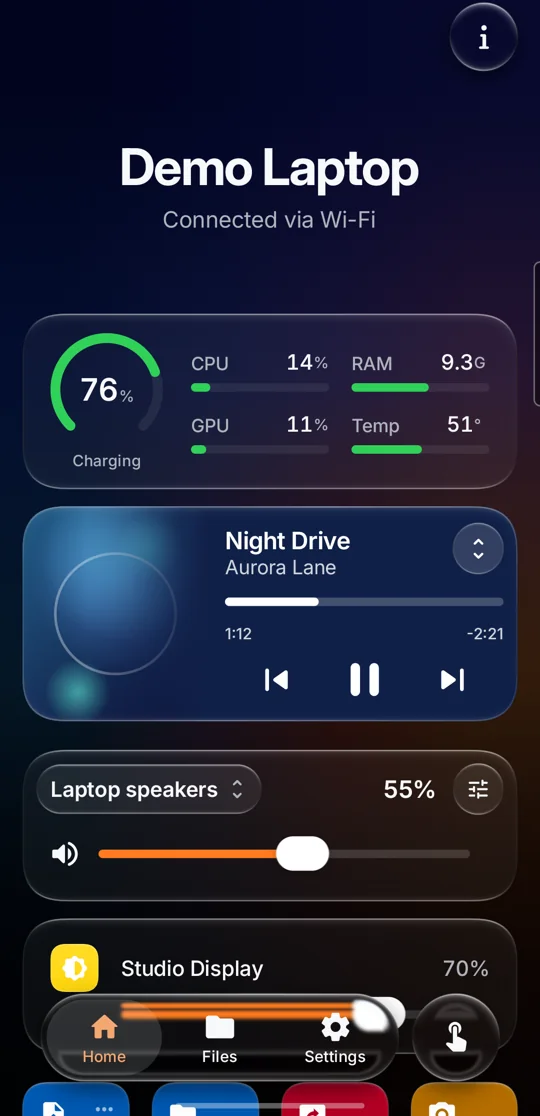
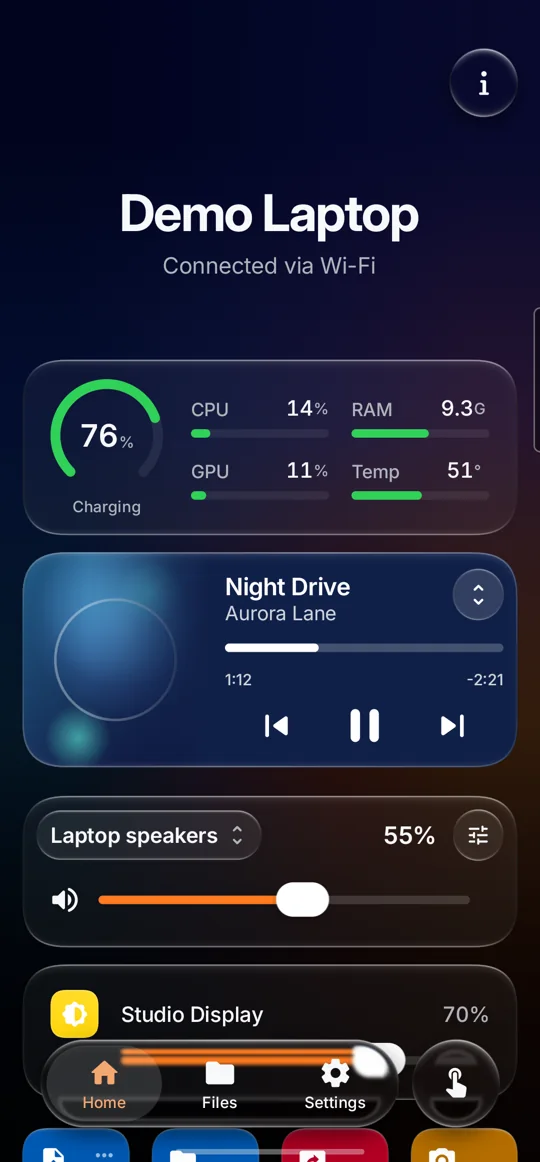
Website: the glass floats in, rims follow the card corners, room above the phone's i button
The lens rises from the sand as a small drop and swells into place over the name, then rests
(nothing redraws once it's settled). Cards' rim and inner band now take the card's smooth corner,
so they no longer sit inside it at the corners. The phone screenshot gets the space the status
bar took, so its i button clears the frame's corner.

diff --git a/site/assets/site.js b/site/assets/site.js
@@ -71,6 +71,8 @@
     const ZOOM = 1.12, DPR = Math.min(window.devicePixelRatio || 1, 2);
     let W = 0, H = 0, D = 0, x = 0, y = 0, vx = 0, vy = 0, tx = 0, ty = 0;
     let held = false, gx = 0, gy = 0, running = false, placed = false, moved = false;
+    // It floats in: a small drop rising from the sand that swells to full size over the word.
+    let restX = 0, restY = 0, entering = !reduced, sc = reduced ? 1 : 0.22, vs = 0;
     let src = null, sw = 0, sh = 0, table = null, L = 0, out = null, build = 0;
 
     // Where each lens pixel looks, in device px from the lens centre, and how much of it is inside.
@@ -168,13 +170,17 @@
 
     function measure() {
       W = hero.clientWidth; H = hero.clientHeight; D = lens.offsetWidth;
-      if (!placed) {
+      if (!placed || entering) {
         const range = document.createRange();
         range.selectNodeContents($(".word", scene));
         const r = range.getBoundingClientRect(), h = hero.getBoundingClientRect();
-        x = r.left - h.left - D * 0.12;
-        y = r.top - h.top + r.height / 2 - D / 2;
-        placed = true;
+        restX = Math.min(Math.max(r.left - h.left - D * 0.12, 0), W - D);
+        restY = Math.min(Math.max(r.top - h.top + r.height / 2 - D / 2, 0), H - D);
+        if (!placed) {
+          x = restX; y = restY;
+          if (entering) { x = restX + Math.min(W * 0.22, D * 1.4); y = Math.min(restY + H * 0.34, H - D); }
+          placed = true;
+        }
       }
       x = Math.min(Math.max(x, 0), W - D);
       y = Math.min(Math.max(y, 0), H - D);
@@ -185,17 +191,29 @@
 
     function draw() {
       const s = Math.hypot(vx, vy), k = Math.min(s / 45, 1) * 0.1, a = Math.atan2(vy, vx);
-      lens.style.transform = `translate(${x}px, ${y}px) rotate(${a}rad) scale(${1 + k}, ${1 - k * 0.7}) rotate(${-a}rad)`;
+      lens.style.transform = `translate(${x}px, ${y}px) rotate(${a}rad) scale(${sc * (1 + k)}, ${sc * (1 - k * 0.7)}) rotate(${-a}rad)`;
+      lens.style.opacity = Math.min(Math.max((sc - 0.22) / 0.4, 0), 1);
       // The sun is the light: the rim is brightest where it faces it.
-      const sc = Math.max(W / 1600, H / 1000);
-      const sx = (W - 1600 * sc) / 2 + 930 * sc, sy = (H - 1000 * sc) / 2 + 500 * sc;
+      const fit = Math.max(W / 1600, H / 1000);
+      const sx = (W - 1600 * fit) / 2 + 930 * fit, sy = (H - 1000 * fit) / 2 + 500 * fit;
       const deg = Math.atan2(sx - (x + D / 2), -(sy - (y + D / 2))) * 180 / Math.PI;
       lens.style.setProperty("--la", deg + "deg");
       paint();
     }
 
     function step() {
-      if (held) {
+      // Swelling to full size wobbles out like a drop (underdamped), held or not.
+      vs = (vs + (1 - sc) * 0.035) * 0.8;
+      sc += vs;
+      if (entering && !held) {
+        vx = (vx + (restX - x) * 0.014) * 0.85;
+        vy = (vy + (restY - y) * 0.014) * 0.85;
+        x += vx; y += vy;
+        if (Math.hypot(restX - x, restY - y) < 0.3 && Math.hypot(vx, vy) < 0.05 && Math.abs(1 - sc) < 0.002) {
+          entering = false;
+          if (!moved) hint.classList.remove("gone");
+        }
+      } else if (held) {
         const nx = x + (tx - x) * 0.32, ny = y + (ty - y) * 0.32;
         vx = nx - x; vy = ny - y; x = nx; y = ny;
       } else {
@@ -206,13 +224,15 @@
         if (y < 0) { y = 0; vy = -vy * 0.6; }
         if (y > H - D) { y = H - D; vy = -vy * 0.6; }
       }
-      if (held || Math.hypot(vx, vy) > 0.04) { draw(); requestAnimationFrame(step); }
-      else { vx = vy = 0; draw(); running = false; }
+      const settling = Math.abs(1 - sc) > 0.002 || Math.abs(vs) > 0.001;
+      if (held || entering || settling || Math.hypot(vx, vy) > 0.04) { draw(); requestAnimationFrame(step); }
+      else { vx = vy = 0; sc = 1; vs = 0; draw(); running = false; }
     }
     const run = () => { if (!running) { running = true; requestAnimationFrame(step); } };
 
     lens.addEventListener("pointerdown", e => {
       held = true;
+      entering = false;
       lens.classList.add("held");
       lens.setPointerCapture(e.pointerId);
       const h = hero.getBoundingClientRect();
@@ -244,7 +264,9 @@
       resizeTimer = setTimeout(() => { lastW = hero.clientWidth; measure(); }, 150);
     });
     lastW = hero.clientWidth;
+    if (entering) hint.classList.add("gone");
     measure();
+    if (entering) setTimeout(run, 450);
   }
 
   // ---------- Nav: clear over the dunes, refracting where the browser can ----------

diff --git a/site/assets/site.css b/site/assets/site.css
@@ -143,6 +143,8 @@ code, pre { font-family: ui-monospace, "JetBrains Mono", "SF Mono", Menlo, Conso
 
 @supports (corner-shape: superellipse(1.6)) {
   .glass, .badge, .tile, .shot-pc { corner-shape: superellipse(1.6); }
+  /* The rim and the band are separate layers: they take the card's corner too, or they sit inside it. */
+  .glass::before, .glass::after { corner-shape: inherit; }
   .glass { border-radius: calc(var(--r-card) * 1.25); }
   .tile { border-radius: calc(var(--r-tile) * 1.25); }
 }
@@ -269,6 +271,7 @@ code, pre { font-family: ui-monospace, "JetBrains Mono", "SF Mono", Menlo, Conso
   filter: drop-shadow(0 16px 22px rgba(40, 20, 10, .28));
 }
 .no-js .lens { display: none; }
+.js .lens { opacity: 0; }
 .lens.held { cursor: grabbing; }
 .lens-view { position: absolute; inset: 0; border-radius: 50%; overflow: hidden; }
 .lens-canvas { position: absolute; inset: 0; width: 100%; height: 100%; border-radius: 50%; }
@@ -374,7 +377,7 @@ p { text-wrap: pretty; }
   background: linear-gradient(160deg, #2c2d31, #0d0d0f 40%, #1b1c1f);
   box-shadow: inset 0 0 0 1.5px rgba(255, 255, 255, .14), 0 30px 60px -20px rgba(0, 0, 0, .45), 0 0 0 1px rgba(0, 0, 0, .3);
 }
-.phone img { border-radius: 38px; width: 100%; aspect-ratio: 540 / 1116; object-fit: cover; }
+.phone img { border-radius: 38px; width: 100%; aspect-ratio: 540 / 1162; object-fit: cover; }
 .shot-pc {
   width: 100%;
   border-radius: 18px;

diff --git a/site/index.html b/site/index.html
@@ -226,7 +226,7 @@
 
   <div class="show">
     <div class="show-art rise">
-      <div class="phone"><img src="img/phone-home.webp" width="540" height="1116" loading="lazy" decoding="async" alt="Vyoma's Home screen on the phone: the PC's battery, CPU, memory and temperature, the music playing on the PC, its volume and display brightness"></div>
+      <div class="phone"><img src="img/phone-home.webp" width="540" height="1162" loading="lazy" decoding="async" alt="Vyoma's Home screen on the phone: the PC's battery, CPU, memory and temperature, the music playing on the PC, its volume and display brightness"></div>
     </div>
     <div class="show-copy rise">
       <span class="kicker" style="text-align:inherit">On the phone</span>
